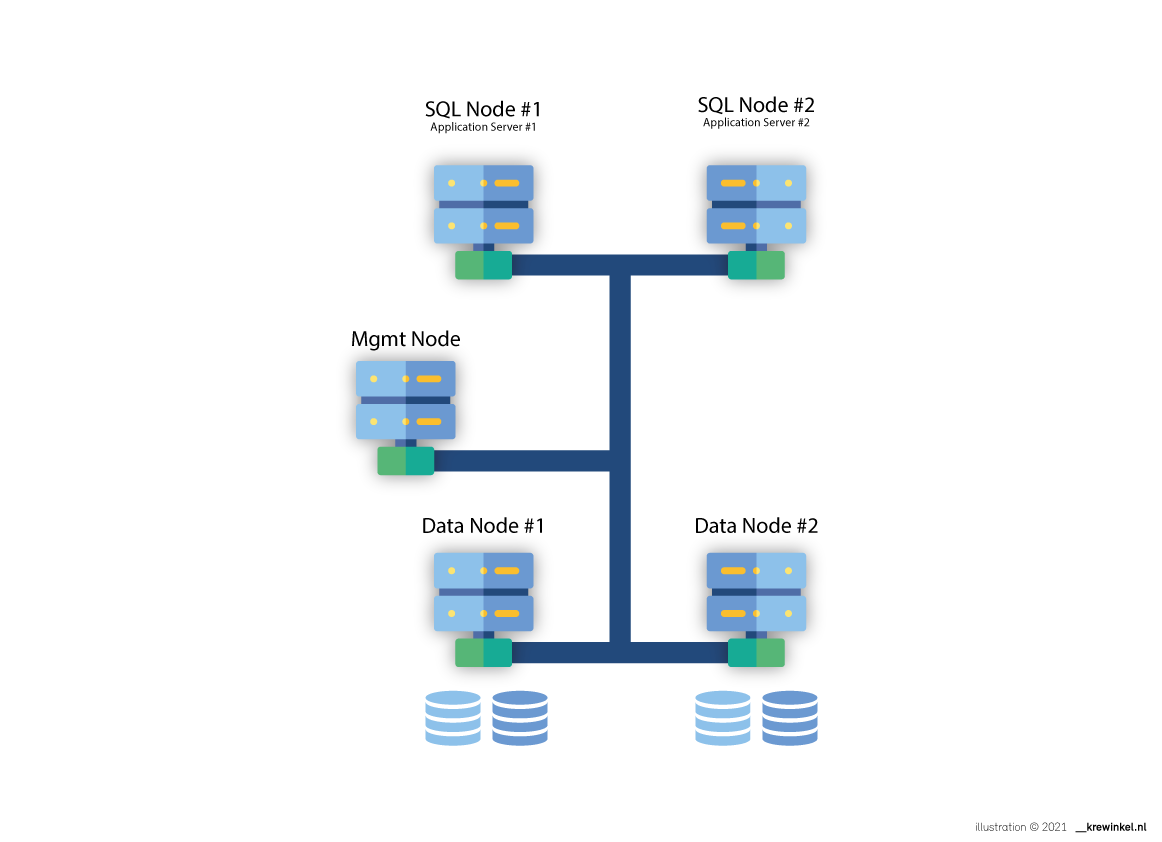
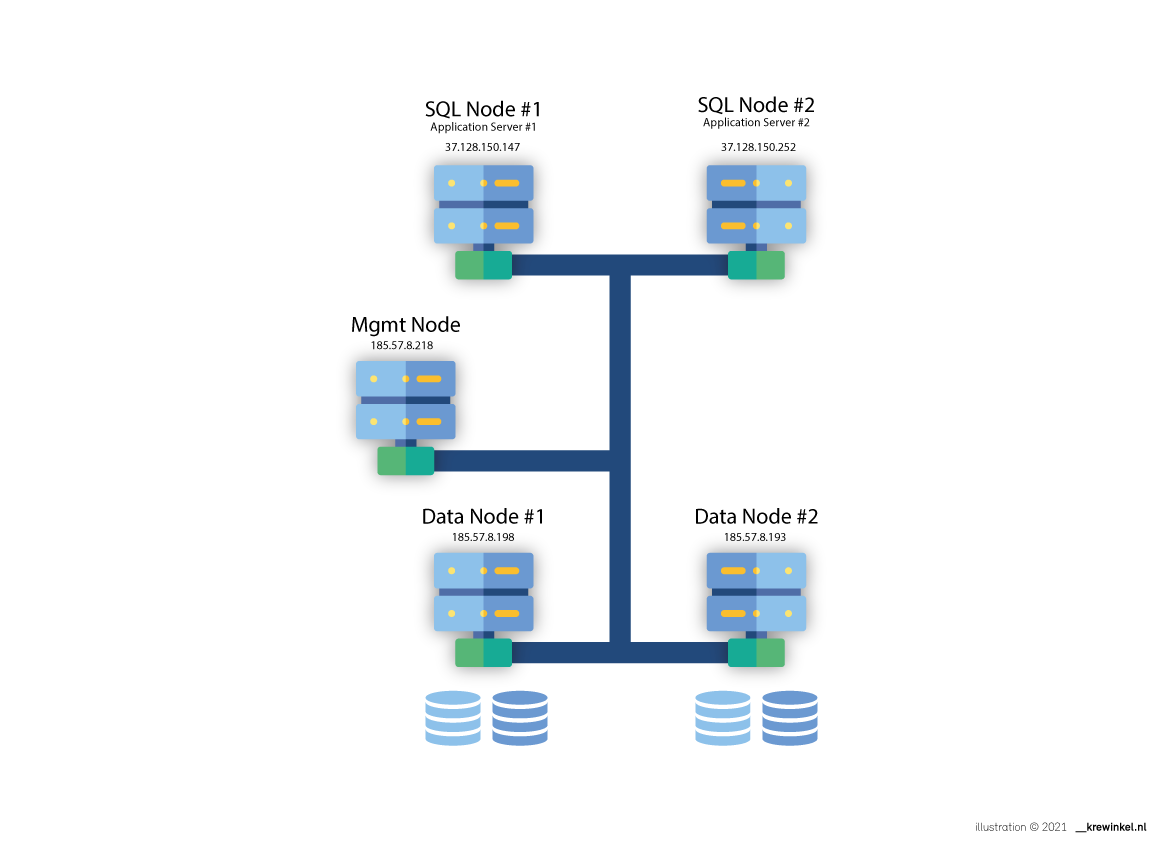
update galera cluster manager

diff --git a/cluster/README-galera.md b/cluster/README-galera.md
@@ -2,11 +2,55 @@
 
 Information: https://galeracluster.com/
 
+
+## Architecture
+<img src="architecture.png">
+
+> Warning The IP addresses in  the example are for demonstration purposes only. Use the real values from your nodes and netmask in the iptables configuration for your cluster.
+
+
 ## Step by Step installation guide (platform independent)
 
-### Disabling SELinux for mysqld
+### (optional) Disabling SELinux for mysqld
 If SELinux (Security-Enhanced Linux) is enabled on the servers, it may block `mysqld` from performing required operations. You must either disable SELinux for `mysqld` or configure it to allow `mysqld` to run external programs and open listen sockets on unprivileged ports—that is, operations that an unprivileged user may do.
 To disable SELinux for `mysqld`, execute the following from the command-line: 
 ```
 # semanage permissive -a mysqld_t
 ```
+This command switches SELinux into permissive mode when it registers activity from the database server. While this is fine during the installation and configuration process, it is not in general a good policy to disable security applications.
+
+Rather than disable SELinux, so that your may use it along with Galera Cluster, you will need to create an access policy. This will allow SELinux to understand and allow normal operations from the database server. For information on how to create such an access policy, see [SELinux](https://galeracluster.com/library/documentation/selinux.html).
+
+### (optional) Firewall Configuration
+Next, you will need to update the firewall settings on each node so that they may communicate with the cluster. How you do this varies depending upon your distribution and the particular firewall software that you use.
+
+In general you can allow all traffic from systems/VPS's in your cluster:
+```
+ufw allow from 37.128.150.147
+ufw allow from 37.128.150.252
+ufw allow from 185.57.8.218
+ufw allow from 185.57.8.198
+ufw allow from 185.95.14.193
+```
+
+> Warning The IP addresses in  the example are for demonstration purposes only. Use the real values from your nodes and netmask in the iptables configuration for your cluster. 
+
+### (optional) Disabling AppArmor
+By default, some servers—for instance, Ubuntu—include AppArmor, which may prevent mysqld from opening additional ports or running scripts. You must disable AppArmor or configure it to allow mysqld to run external programs and open listen sockets on unprivileged ports.
+
+To disable AppArmor, run the following commands:
+````
+$ sudo ln -s /etc/apparmor.d/usr.sbin.mysqld /etc/apparmor.d/disable/usr.sbin.mysqld
+````
+You will then need to tell AppArmor to reload profile:
+````
+$ sudo apparmor_parser -R /etc/apparmor.d/usr.sbin.mysqld
+````
+In some cases you may also need to restart AppArmor. If your system uses init scripts, run the following command:
+````
+$ sudo service apparmor restart
+````
+If instead, your system uses systemd, run the following command instead:
+````
+$ sudo systemctl restart apparmor
+````

diff --git a/cluster/README-redhat.md b/cluster/README-redhat.md
@@ -8,6 +8,9 @@
 ## Architecture
 <img src="architecture.png">
 
+> Warning The IP addresses in the example are for demonstration purposes only. Use the real values from your nodes and netmask in the iptables configuration for your cluster.
+
+
 ## 1 — Installing the infrastructure
 We’ll first begin by downloading and installing the MySQL Cluster Manager, `ndb_mgmd`
 To install the Cluster Manager, we first need to fetch the appropriate .deb installer file from the the official [MySQL Cluster download page](http://dev.mysql.com/downloads/cluster/).

diff --git a/cluster/README-ubuntu.md b/cluster/README-ubuntu.md
@@ -5,6 +5,7 @@ I've adapted this [original post](https://www.digitalocean.com/community/tutoria
 ## Architecture
 <img src="architecture.png">
 
+> Warning The IP addresses in  the example are for demonstration purposes only. Use the real values from your nodes and netmask in the iptables configuration for your cluster.
 
 
 > **Note:** Login as `root` on the specified systems. 

diff --git a/README.md b/README.md
@@ -70,4 +70,5 @@ see documentation [here](./replication/mysqld-modifications.md)
 
 ## Cluster
 Installing a MySQL Cluster on Linux ([Ubuntu](./cluster/README-ubuntu.md) and [RedHat](./cluster/README-redhat.md)) documentation and setup guide [here](./cluster/README.md)
-
+  
+UPDATE: Added detailed installation instructions for [Galera Clustmanager](./cluster/README-galera.md)

diff --git a/cluster/README.md b/cluster/README.md
@@ -9,6 +9,7 @@ I've adapted this [original post](https://www.digitalocean.com/community/tutoria
 ## Platform specific
 1. Install on [Ubuntu](./README-ubuntu.md)
 2. Install on [RedHat](./README-redhat.md)
+3. Install [Galera Cluster Manager](./README-galera.md)
 
 ## Migration
 1. Migration [guide](./README-migration.md)
